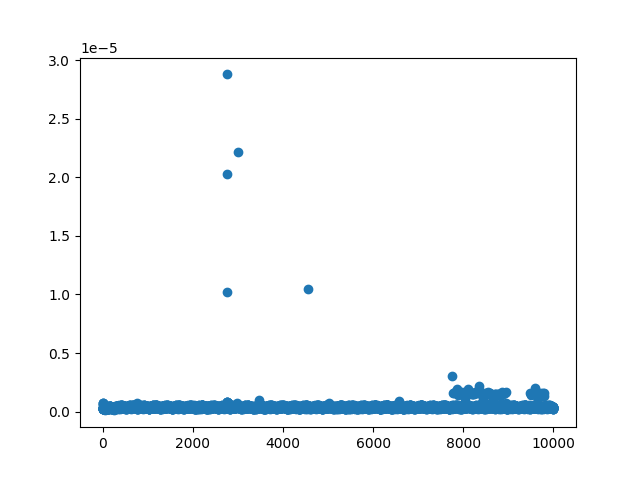
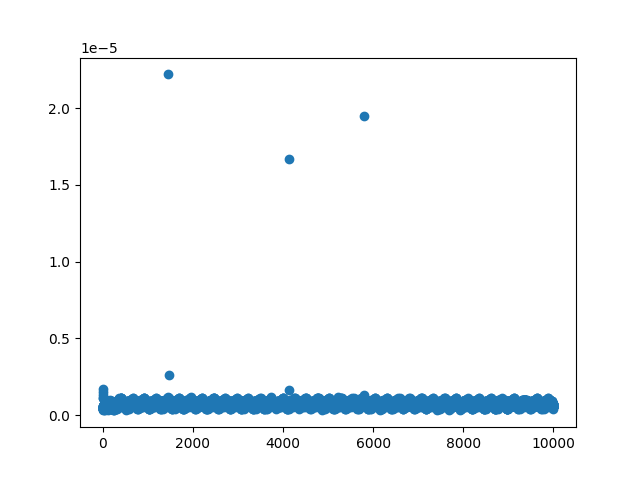
stabel

diff --git a/list6/list6/rsa/sec_rsa.py b/list6/list6/rsa/sec_rsa.py
@@ -1,0 +1,58 @@
+import random
+
+
+
+def axe(message, p, q, size=8):
+    chunk_size = (p * q).bit_length() // size 
+    chunks = [message[i : i + chunk_size] for i in range(0, len(message), chunk_size)]
+    return chunks
+
+def int_form_to_bytes(sequence, encoding="UTF-8"):
+    return sequence.to_bytes((sequence.bit_length() + 7) // 8, byteorder="big").decode(encoding)
+
+def generate_keypair(p, q):
+    n = p * q
+    phi = (p - 1) * (q - 1)
+    e = random.randrange(1, phi)
+    gcd = lambda a, b: a if not b else gcd(b, a % b)
+    while gcd(e, phi) != 1:
+        e = random.randrange(1, phi)
+    d = pow(e, -1, phi)
+    return (e, n), (d, n)
+
+def safe_prime():
+    pass
+
+def encrypt(public, plaintext, encoding="UTF-8"):
+    key, n = public
+    int_form = int.from_bytes(bytes(plaintext, encoding=encoding), byteorder="big")
+    return pow(int_form, key, n)
+
+def decrypt(private, ciphertext, encoding="UTF-8"):
+    key, n = private
+    bytes_form = pow(ciphertext, key, n)
+    return int_form_to_bytes(int(bytes_form))
+
+if __name__ == '__main__':
+    cipher_text = []
+
+    mes = "Hello, World!"
+
+    p = 61
+    q = 53
+
+    public_key, private_key = generate_keypair(p, q)
+
+    print("Public key: ", public_key) 
+    print("Private key: ", private_key) 
+
+    parts = axe(mes, p, q)
+
+    for part in parts: 
+        cipher_text.append(encrypt(public_key, part)) 
+    plain_text = "" 
+    for chunk in cipher_text: 
+        plain_text += decrypt(private_key, chunk) 
+    
+    print("Cipher text ", cipher_text) 
+    print("Decrypted text: ", plain_text)

diff --git a/list6/list6/perf_test.py b/list6/list6/perf_test.py
@@ -1,7 +1,7 @@
 import timeit
 import matplotlib.pyplot as plt
 
-from NWD import ENWD
+from NWD import ENWD, RNWD
 
 
 def profile(target, n, m: int=10000):
@@ -27,4 +27,4 @@ def visualize(func, n, b: int):
 
 
 if __name__ == '__main__':
-    visualize(ENWD, 256, 10000)
+    visualize(RNWD, 256, 100)

diff --git a/list6/list6/p_rsa.py b/list6/list6/p_rsa.py
@@ -27,5 +27,5 @@ public_key, private_key = generate_keypair(p, q)
 message = "Hello, World!"
 encrypted_message = encrypt(public_key, message)
 decrypted_message = decrypt(private_key, encrypted_message)
-
+print(encrypted_message)
 print(decrypted_message)

diff --git a/list6/list6/erastotenes.py b/list6/list6/erastotenes.py
@@ -13,7 +13,7 @@ def sieve(p: int):
         if x[i]:
             for j in range(2, floor(p/i)+1):
                 x[i*j] = False
-    return x[2:]
+    return x[1:]
 
 
 if __name__ == "__main__":

diff --git a/list6/list6/fermat.py b/list6/list6/fermat.py
@@ -24,5 +24,5 @@ def test(n, t):
 
 
 if __name__ == "__main__":
-    print(fast_modulo(12, 53, 7))
+    # print(fast_modulo(12, 53, 7))
     print(test(17, 20))

diff --git a/list6/list6/NWD.py b/list6/list6/NWD.py
@@ -28,3 +28,4 @@ def RNWD(a, b):
 
 if __name__ == '__main__':
     print(RNWD(10, 6))
+    print(ENWD(10, 6))

diff --git a/list6/list6/rsa/main.py b/list6/list6/rsa/main.py
@@ -1,0 +1,3 @@
+from sec_rsa import encrypt_txt, decrypt_txt
+
+
